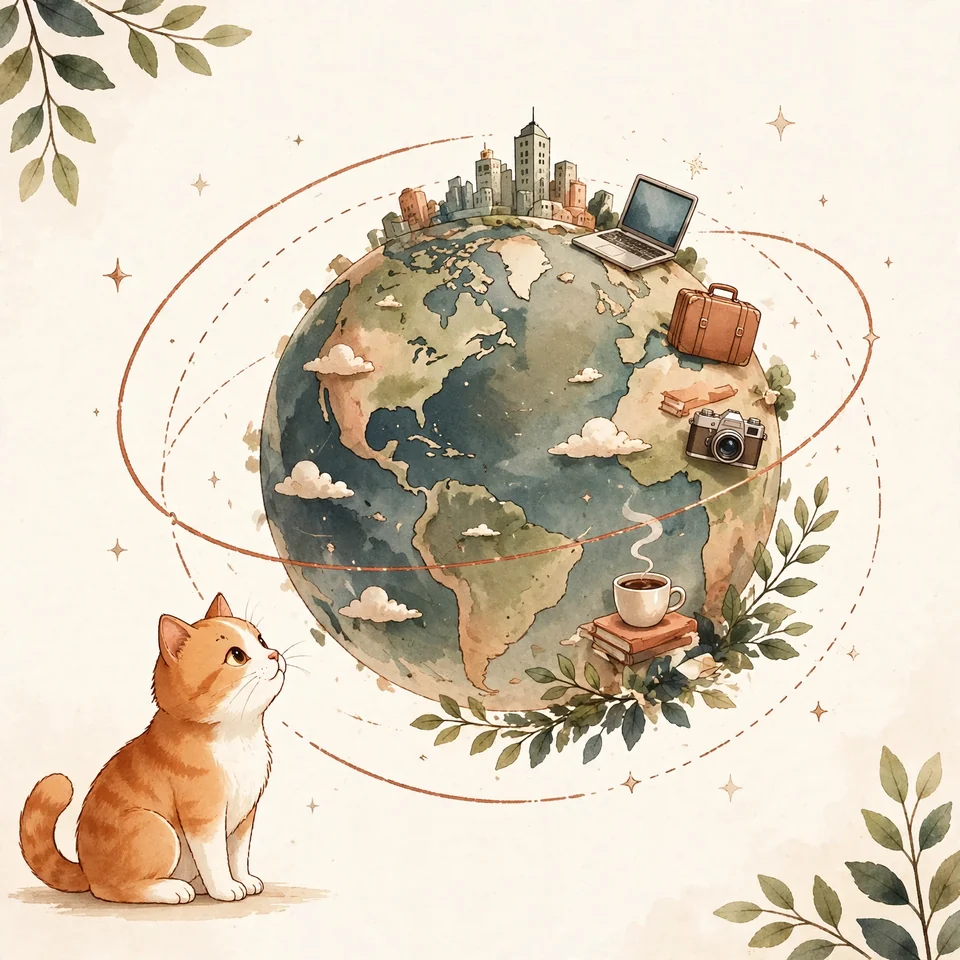
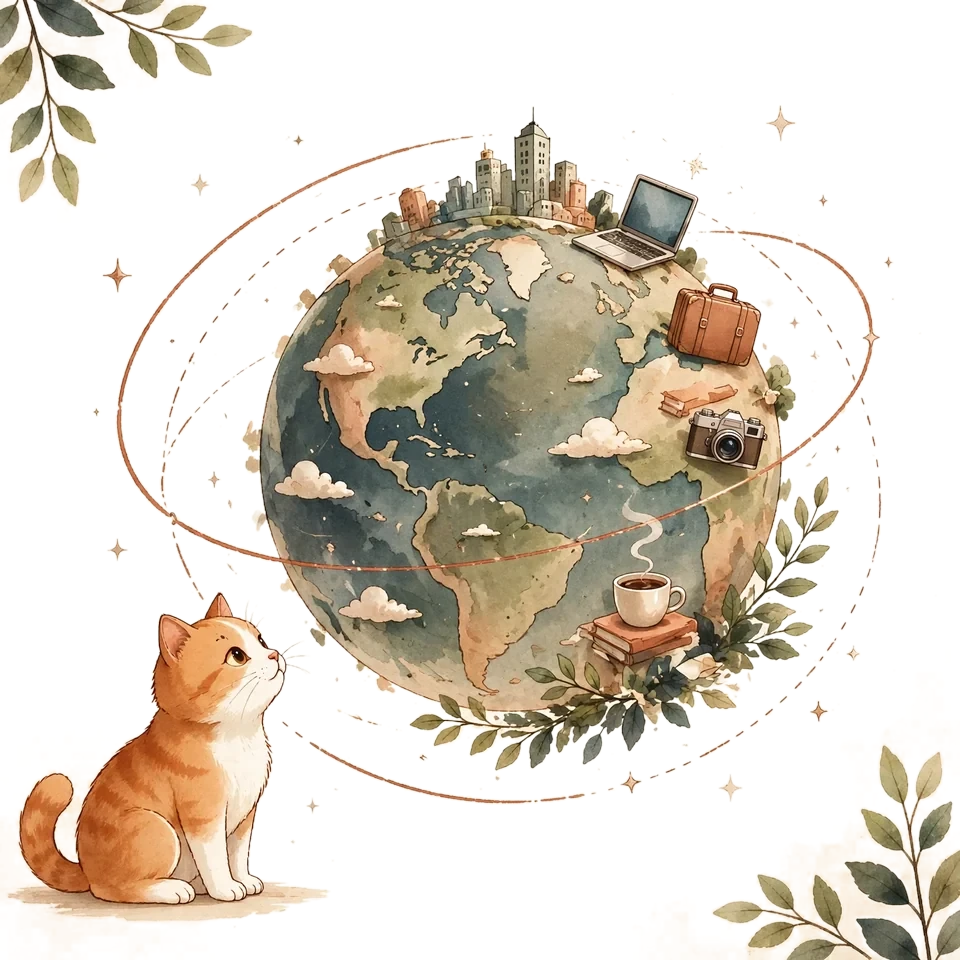
Welcome gate: baked-alpha artwork, silhouette-masked video — no rectangle in any state

diff --git a/components/WelcomeGate.tsx b/components/WelcomeGate.tsx
@@ -62,16 +62,57 @@ function getServerMotionSnapshot(): boolean {
  * asked for, on whichever page the gate was mounted over.
  *
  * Screen A is ONE integrated editorial scene, not two boxes: the
- * artwork (poster still, with the intro video layered on top) carries
- * a radial edge-dissolve mask so its baked-in cream melts into the
- * gate's page background, and once the intro settles (video end, skip,
- * failure, or the safety timeout) the welcome text fades in beside it
- * as a plain block floating on the same background — no stage frame,
- * no panel card. When the video ends naturally, a small greeter cat
- * joins the scene at the artwork's lower-left; the poster still
- * already contains a sitting cat, so the greeter only appears on the
- * video path (tracked via `settledVia`).
+ * artwork's paper background has been matted out of the assets
+ * themselves, so the poster still is genuinely transparent and sits
+ * directly on the gate's page background, and the intro video is
+ * clipped by a silhouette mask of its own animation — no framed
+ * rectangle in any state. Once the intro settles (video end, skip,
+ * failure, or the safety timeout) the welcome text fades in beside
+ * it as a plain block floating on the same background — no stage
+ * frame, no panel card. When the video ends naturally, a matted
+ * still of its last frame crossfades over the video and a small
+ * greeter cat joins the scene inside the artwork's lower-left; the
+ * poster still already contains a sitting cat, so the greeter only
+ * appears on the video path (tracked via `settledVia`).
  */
+/**
+ * The intro video's last frame as a matted still (the cat standing on
+ * top of the globe, paper genuinely transparent). On the natural
+ * video path it crossfades in over the ended video: pixel-identical
+ * artwork, but with no paper at all, so the settled scene has no
+ * rectangle in any browser. Fades from opacity 0 on mount over
+ * ~0.6s (double rAF so the transition reliably runs).
+ */
+function FinalStill() {
+  const [shown, setShown] = useState(false);
+  useEffect(() => {
+    let raf2 = 0;
+    const raf1 = window.requestAnimationFrame(() => {
+      raf2 = window.requestAnimationFrame(() => setShown(true));
+    });
+    return () => {
+      window.cancelAnimationFrame(raf1);
+      window.cancelAnimationFrame(raf2);
+    };
+  }, []);
+  return (
+    // eslint-disable-next-line @next/next/no-img-element -- static settled-state asset, same pattern as the other gate artwork
+    <img
+      src="/images/cat-globe-final.webp"
+      alt=""
+      width={960}
+      height={960}
+      loading="eager"
+      decoding="async"
+      draggable={false}
+      aria-hidden="true"
+      className={`pointer-events-none absolute inset-0 h-full w-full object-cover transition-opacity duration-[600ms] motion-reduce:transition-none ${
+        shown ? "opacity-100" : "opacity-0"
+      }`}
+    />
+  );
+}
+
 export default function WelcomeGate() {
   const { t } = useLanguage();
   const w = t.welcome;
@@ -211,21 +252,20 @@ export default function WelcomeGate() {
             }`}
           >
             {/* Intro stage — the artwork itself, unframed: the poster
-                still underneath, the intro video layered on top, both
-                carrying the .gate-art-mask radial edge-dissolve so the
-                illustration melts into the page background instead of
-                ending at a hard square edge. The mask is identical in
-                every state (intro, settled last frame, poster), so
-                nothing jumps when states change. While the intro runs
-                the artwork sits centered on its own; once settled,
-                desktop (≥lg) reflows into the hero — artwork left
-                (~54%), welcome text right (~46%) — while mobile keeps
-                a single column with a compact artwork so the text and
-                its CTA stay close at hand. When the video ends
-                naturally it stays visible, holding its last frame
-                (the cat on top of the globe), and the greeter cat
-                fades in at the artwork's lower-left as part of the
-                same scene. */}
+                still underneath (its paper matted out of the asset, so
+                it is genuinely transparent), the intro video layered
+                on top and clipped by .gate-video-mask — a silhouette
+                of the whole orbit animation — so the video's paper
+                never shows either. While the intro runs the artwork
+                sits centered on its own; once settled, desktop (≥lg)
+                reflows into the hero — artwork left (~54%), welcome
+                text right (~46%) — while mobile keeps a single column
+                with a compact artwork so the text and its CTA stay
+                close at hand. When the video ends naturally it stays
+                mounted underneath, holding its last frame, while a
+                matted still of that same frame crossfades over it and
+                the greeter cat fades in inside the artwork's
+                lower-left as part of the same scene. */}
             <div
               className={`relative aspect-square ${
                 settled
@@ -242,7 +282,7 @@ export default function WelcomeGate() {
                 loading="eager"
                 decoding="async"
                 draggable={false}
-                className="gate-art-mask absolute inset-0 h-full w-full object-cover select-none"
+                className="absolute inset-0 h-full w-full object-cover select-none"
               />
               {showVideo && (
                 <video
@@ -270,11 +310,22 @@ export default function WelcomeGate() {
                     setSettledVia("still");
                     setPhase("settled");
                   }}
-                  className={`gate-art-mask absolute inset-0 h-full w-full object-cover transition-opacity duration-500 motion-reduce:transition-none ${
+                  className={`gate-video-mask absolute inset-0 h-full w-full object-cover transition-opacity duration-500 motion-reduce:transition-none ${
                     videoFaded ? "opacity-0" : "opacity-100"
                   }`}
                 />
               )}
+              {/* Settled still for the natural video path: a matted
+                  copy of the video's last frame crossfades over the
+                  ended video (which stays mounted underneath), so
+                  the final scene is pure illustration on the page
+                  background — no paper rectangle in any browser,
+                  Safari included. Poster paths never render it: the
+                  poster still is already transparent. */}
+              {settled &&
+                settledVia === "video" &&
+                !videoFaded &&
+                !videoFailed && <FinalStill />}
               {!settled && showVideo && (
                 <button
                   type="button"
@@ -287,12 +338,14 @@ export default function WelcomeGate() {
               )}
               {/* Greeter cat — only on the natural video path: the
                   stage then shows the last frame (cat on top of the
-                  globe), so this sitting cat joins the scene at the
-                  artwork's lower-left, fully visible and grounded by
-                  its own soft radial melt. On every poster path the
-                  still already contains a sitting cat — no duplicate.
-                  It fades in with the welcome text and never overlaps
-                  it (it belongs to the artwork column). */}
+                  globe), so this sitting cat joins the scene fully
+                  inside the artwork's lower-left. Its paper is matted
+                  out of the asset itself, so it grounds into the page
+                  background instead of reading as a sticker. On every
+                  poster path the still already contains a sitting
+                  cat — no duplicate. It fades in with the welcome
+                  text and never overlaps it (it belongs to the
+                  artwork column). */}
               {settled &&
                 settledVia === "video" &&
                 !videoFaded &&
@@ -307,7 +360,7 @@ export default function WelcomeGate() {
                     decoding="async"
                     draggable={false}
                     aria-hidden="true"
-                    className="gate-panel-in gate-decor-mask pointer-events-none absolute -bottom-3 -left-3 z-10 w-[92px] select-none sm:w-[110px] lg:-bottom-5 lg:-left-5 lg:w-[140px]"
+                    className="gate-panel-in pointer-events-none absolute bottom-1 left-1 z-10 w-[100px] select-none sm:bottom-2 sm:left-2 sm:w-[120px] lg:bottom-3 lg:left-3 lg:w-[150px]"
                   />
                 )}
             </div>

diff --git a/app/globals.css b/app/globals.css
@@ -167,7 +167,8 @@ html[data-welcome="locked"] body {
  * Welcome screen entrance motion. The intro itself is a short muted
  * video (the cat orbiting a hand-drawn globe) played once over its
  * poster still; its state machine lives in WelcomeGate.tsx. The CSS
- * here only carries the panel/screen entrances below.
+ * here carries the panel/screen entrances and the video's silhouette
+ * mask below.
  */
 
 @keyframes gate-panel-in {
@@ -204,44 +205,23 @@ html[data-welcome="locked"] body {
 }
 
 /*
- * Edge-dissolve for the welcome artwork (poster still + intro video).
- * The illustration's cream background is baked in, so instead of a
- * framed rectangle the artwork itself is masked with a large radial
- * gradient and melts into the gate's page background — one continuous
- * scene in both themes (a soft vignette on dark). The gradient is
- * deliberately wide and its solid core generous: the globe, the city,
- * the orbit ring, the poster's sitting cat (bottom-left) and the
- * video's cat on top of the globe all sit far from the corners and
- * stay solid and legible, while the artwork's outer cream corners and
- * leaf decorations dissolve away.
+ * Silhouette mask for the intro video. The artwork's paper background
+ * has been matted out of the still assets themselves (genuine alpha),
+ * but the mp4's frames still carry the paper — so the video is
+ * clipped by a union silhouette of the whole orbit animation
+ * (cat-orbit-mask.webp: white RGB + alpha, same 960×960 frame) and
+ * only the illustration content is ever visible, in every browser
+ * (Safari via the -webkit- prefix). The stills need no mask at all.
  */
-.gate-art-mask {
-  -webkit-mask-image: radial-gradient(
-    130% 130% at 50% 46%,
-    black 65%,
-    transparent 92%
-  );
-  mask-image: radial-gradient(
-    130% 130% at 50% 46%,
-    black 65%,
-    transparent 92%
-  );
-}
-
-/*
- * Soft radial melt for the greeter cat that joins the scene beside
- * the artwork once the intro video ends. The crop carries the
- * illustration's baked-in cream background, so its edges are masked
- * out radially and the cat grounds into the page background instead
- * of reading as a sticker, in both themes.
- */
-.gate-decor-mask {
-  -webkit-mask-image: radial-gradient(
-    closest-side,
-    black 62%,
-    transparent 100%
-  );
-  mask-image: radial-gradient(closest-side, black 62%, transparent 100%);
+.gate-video-mask {
+  -webkit-mask-image: url(/images/cat-orbit-mask.webp);
+  mask-image: url(/images/cat-orbit-mask.webp);
+  -webkit-mask-size: 100% 100%;
+  mask-size: 100% 100%;
+  -webkit-mask-repeat: no-repeat;
+  mask-repeat: no-repeat;
+  -webkit-mask-position: center;
+  mask-position: center;
 }
 
 @media (prefers-reduced-motion: reduce) {
